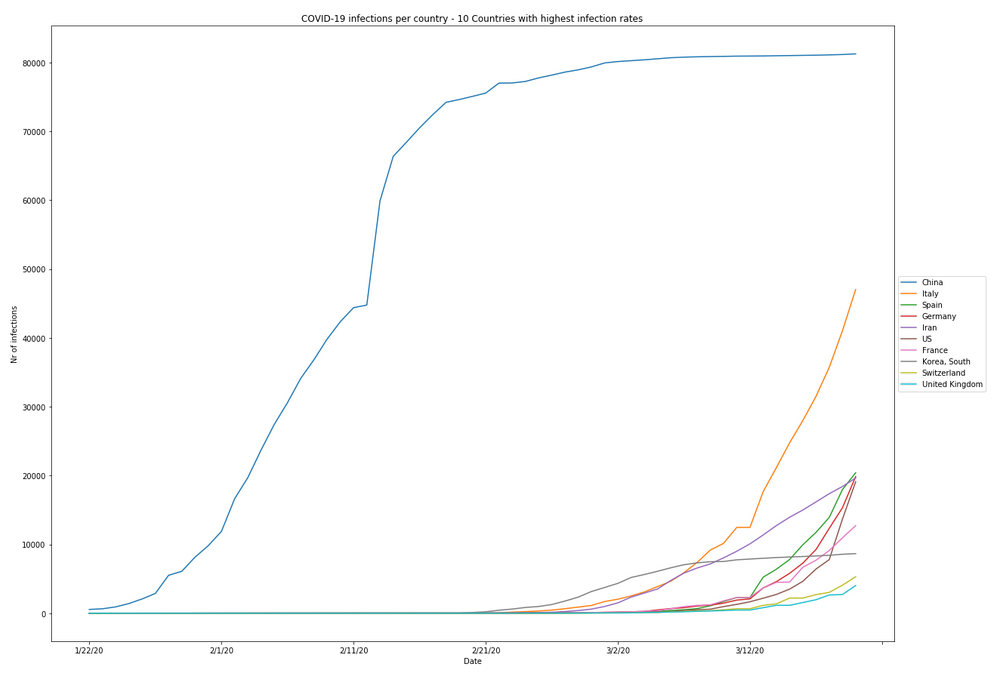
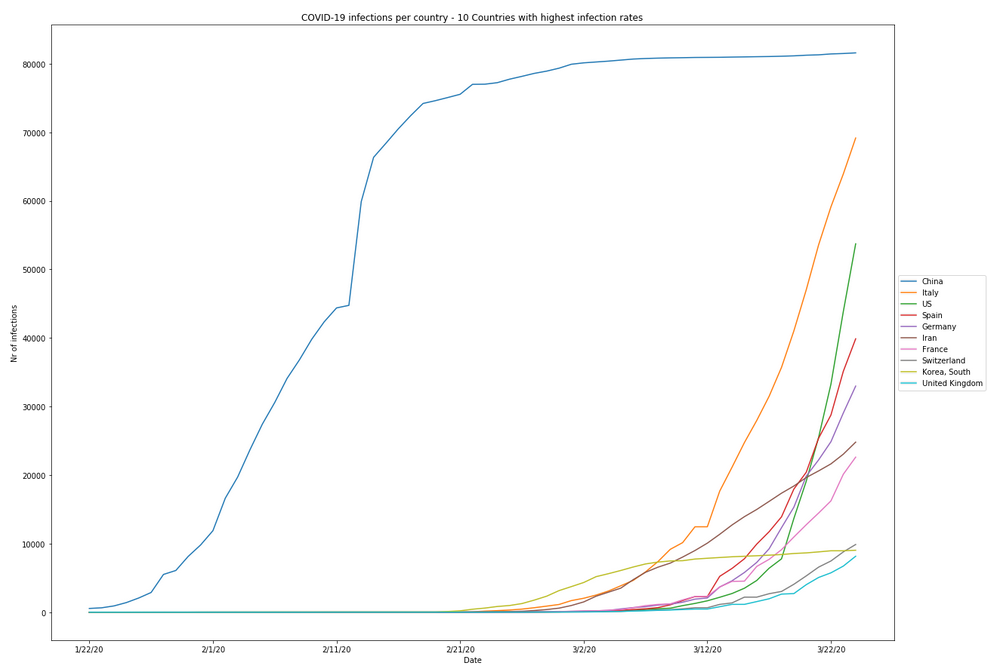
Udpated README images

diff --git a/README.md b/README.md
@@ -17,15 +17,15 @@ Includes the following plot options:
 
 Code in the jupyter notebook, here some results as an image:
 
-10 countries with highest infection rates (date: 3/19/21):
+10 countries with highest infection rates (date: 3/19/25):
 
 ![](images/10-Countries-with-highest-infection-rates.png?raw=true)
 
-Specific countries (date: 3/19/21):
+Specific countries (date: 3/19/25):
 
 ![](images/Specific-Countries.png?raw=true)
 
-Curve fit for country "Germany" (date: 3/19/23):
+Curve fit for country "Germany" (date: 3/19/25):
 
 ![](images/Curve-Fit-Germany.png?raw=true)
 
